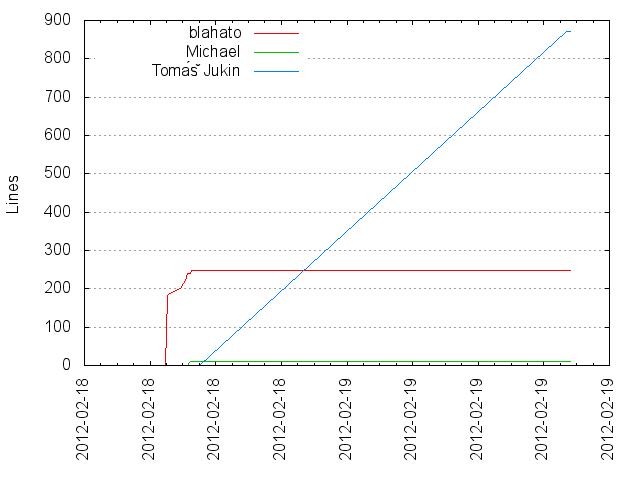
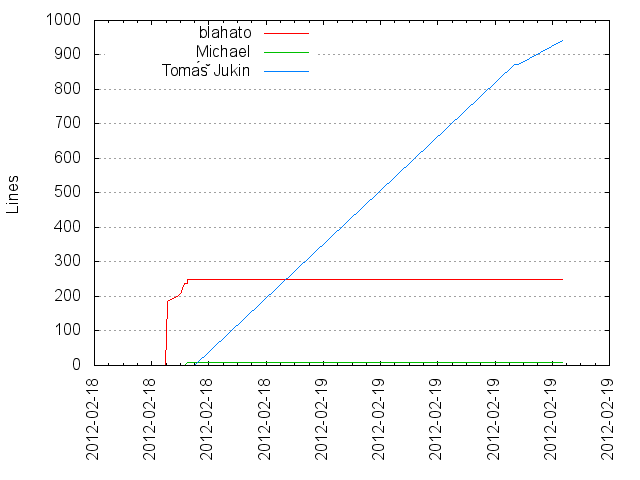
Generated git repository statistics

diff --git a/GADCPrague_stats/activity.html b/GADCPrague_stats/activity.html
@@ -4,7 +4,7 @@
 <head>
 	<title>GitStats - Timetable</title>
 	<link rel="stylesheet" href="gitstats.css" type="text/css" />
-	<meta name="generator" content="GitStats b27ff68" />
+	<meta name="generator" content="GitStats b550f7a" />
 	<script type="text/javascript" src="sortable.js"></script>
 </head>
 <body>
@@ -22,27 +22,27 @@
 
 <h2><a href="#weekly_activity" name="weekly_activity">Weekly activity</a></h2>
 
-<p>Last 32 weeks</p><table class="noborders"><tr><td style="text-align: center; vertical-align: bottom">0<div style="display: block; background-color: red; width: 20px; height: 1px"></div></td><td style="text-align: center; vertical-align: bottom">0<div style="display: block; background-color: red; width: 20px; height: 1px"></div></td><td style="text-align: center; vertical-align: bottom">0<div style="display: block; background-color: red; width: 20px; height: 1px"></div></td><td style="text-align: center; vertical-align: bottom">0<div style="display: block; background-color: red; width: 20px; height: 1px"></div></td><td style="text-align: center; vertical-align: bottom">0<div style="display: block; background-color: red; width: 20px; height: 1px"></div></td><td style="text-align: center; vertical-align: bottom">0<div style="display: block; background-color: red; width: 20px; height: 1px"></div></td><td style="text-align: center; vertical-align: bottom">0<div style="display: block; background-color: red; width: 20px; height: 1px"></div></td><td style="text-align: center; vertical-align: bottom">0<div style="display: block; background-color: red; width: 20px; height: 1px"></div></td><td style="text-align: center; vertical-align: bottom">0<div style="display: block; background-color: red; width: 20px; height: 1px"></div></td><td style="text-align: center; vertical-align: bottom">0<div style="display: block; background-color: red; width: 20px; height: 1px"></div></td><td style="text-align: center; vertical-align: bottom">0<div style="display: block; background-color: red; width: 20px; height: 1px"></div></td><td style="text-align: center; vertical-align: bottom">0<div style="display: block; background-color: red; width: 20px; height: 1px"></div></td><td style="text-align: center; vertical-align: bottom">0<div style="display: block; background-color: red; width: 20px; height: 1px"></div></td><td style="text-align: center; vertical-align: bottom">0<div style="display: block; background-color: red; width: 20px; height: 1px"></div></td><td style="text-align: center; vertical-align: bottom">0<div style="display: block; background-color: red; width: 20px; height: 1px"></div></td><td style="text-align: center; vertical-align: bottom">0<div style="display: block; background-color: red; width: 20px; height: 1px"></div></td><td style="text-align: center; vertical-align: bottom">0<div style="display: block; background-color: red; width: 20px; height: 1px"></div></td><td style="text-align: center; vertical-align: bottom">0<div style="display: block; background-color: red; width: 20px; height: 1px"></div></td><td style="text-align: center; vertical-align: bottom">0<div style="display: block; background-color: red; width: 20px; height: 1px"></div></td><td style="text-align: center; vertical-align: bottom">0<div style="display: block; background-color: red; width: 20px; height: 1px"></div></td><td style="text-align: center; vertical-align: bottom">0<div style="display: block; background-color: red; width: 20px; height: 1px"></div></td><td style="text-align: center; vertical-align: bottom">0<div style="display: block; background-color: red; width: 20px; height: 1px"></div></td><td style="text-align: center; vertical-align: bottom">0<div style="display: block; background-color: red; width: 20px; height: 1px"></div></td><td style="text-align: center; vertical-align: bottom">0<div style="display: block; background-color: red; width: 20px; height: 1px"></div></td><td style="text-align: center; vertical-align: bottom">0<div style="display: block; background-color: red; width: 20px; height: 1px"></div></td><td style="text-align: center; vertical-align: bottom">0<div style="display: block; background-color: red; width: 20px; height: 1px"></div></td><td style="text-align: center; vertical-align: bottom">0<div style="display: block; background-color: red; width: 20px; height: 1px"></div></td><td style="text-align: center; vertical-align: bottom">0<div style="display: block; background-color: red; width: 20px; height: 1px"></div></td><td style="text-align: center; vertical-align: bottom">0<div style="display: block; background-color: red; width: 20px; height: 1px"></div></td><td style="text-align: center; vertical-align: bottom">0<div style="display: block; background-color: red; width: 20px; height: 1px"></div></td><td style="text-align: center; vertical-align: bottom">0<div style="display: block; background-color: red; width: 20px; height: 1px"></div></td><td style="text-align: center; vertical-align: bottom">17<div style="display: block; background-color: red; width: 20px; height: 200px"></div></td></tr><tr><td>32</td><td>31</td><td>30</td><td>29</td><td>28</td><td>27</td><td>26</td><td>25</td><td>24</td><td>23</td><td>22</td><td>21</td><td>20</td><td>19</td><td>18</td><td>17</td><td>16</td><td>15</td><td>14</td><td>13</td><td>12</td><td>11</td><td>10</td><td>9</td><td>8</td><td>7</td><td>6</td><td>5</td><td>4</td><td>3</td><td>2</td><td>1</td></tr></table>
+<p>Last 32 weeks</p><table class="noborders"><tr><td style="text-align: center; vertical-align: bottom">0<div style="display: block; background-color: red; width: 20px; height: 1px"></div></td><td style="text-align: center; vertical-align: bottom">0<div style="display: block; background-color: red; width: 20px; height: 1px"></div></td><td style="text-align: center; vertical-align: bottom">0<div style="display: block; background-color: red; width: 20px; height: 1px"></div></td><td style="text-align: center; vertical-align: bottom">0<div style="display: block; background-color: red; width: 20px; height: 1px"></div></td><td style="text-align: center; vertical-align: bottom">0<div style="display: block; background-color: red; width: 20px; height: 1px"></div></td><td style="text-align: center; vertical-align: bottom">0<div style="display: block; background-color: red; width: 20px; height: 1px"></div></td><td style="text-align: center; vertical-align: bottom">0<div style="display: block; background-color: red; width: 20px; height: 1px"></div></td><td style="text-align: center; vertical-align: bottom">0<div style="display: block; background-color: red; width: 20px; height: 1px"></div></td><td style="text-align: center; vertical-align: bottom">0<div style="display: block; background-color: red; width: 20px; height: 1px"></div></td><td style="text-align: center; vertical-align: bottom">0<div style="display: block; background-color: red; width: 20px; height: 1px"></div></td><td style="text-align: center; vertical-align: bottom">0<div style="display: block; background-color: red; width: 20px; height: 1px"></div></td><td style="text-align: center; vertical-align: bottom">0<div style="display: block; background-color: red; width: 20px; height: 1px"></div></td><td style="text-align: center; vertical-align: bottom">0<div style="display: block; background-color: red; width: 20px; height: 1px"></div></td><td style="text-align: center; vertical-align: bottom">0<div style="display: block; background-color: red; width: 20px; height: 1px"></div></td><td style="text-align: center; vertical-align: bottom">0<div style="display: block; background-color: red; width: 20px; height: 1px"></div></td><td style="text-align: center; vertical-align: bottom">0<div style="display: block; background-color: red; width: 20px; height: 1px"></div></td><td style="text-align: center; vertical-align: bottom">0<div style="display: block; background-color: red; width: 20px; height: 1px"></div></td><td style="text-align: center; vertical-align: bottom">0<div style="display: block; background-color: red; width: 20px; height: 1px"></div></td><td style="text-align: center; vertical-align: bottom">0<div style="display: block; background-color: red; width: 20px; height: 1px"></div></td><td style="text-align: center; vertical-align: bottom">0<div style="display: block; background-color: red; width: 20px; height: 1px"></div></td><td style="text-align: center; vertical-align: bottom">0<div style="display: block; background-color: red; width: 20px; height: 1px"></div></td><td style="text-align: center; vertical-align: bottom">0<div style="display: block; background-color: red; width: 20px; height: 1px"></div></td><td style="text-align: center; vertical-align: bottom">0<div style="display: block; background-color: red; width: 20px; height: 1px"></div></td><td style="text-align: center; vertical-align: bottom">0<div style="display: block; background-color: red; width: 20px; height: 1px"></div></td><td style="text-align: center; vertical-align: bottom">0<div style="display: block; background-color: red; width: 20px; height: 1px"></div></td><td style="text-align: center; vertical-align: bottom">0<div style="display: block; background-color: red; width: 20px; height: 1px"></div></td><td style="text-align: center; vertical-align: bottom">0<div style="display: block; background-color: red; width: 20px; height: 1px"></div></td><td style="text-align: center; vertical-align: bottom">0<div style="display: block; background-color: red; width: 20px; height: 1px"></div></td><td style="text-align: center; vertical-align: bottom">0<div style="display: block; background-color: red; width: 20px; height: 1px"></div></td><td style="text-align: center; vertical-align: bottom">0<div style="display: block; background-color: red; width: 20px; height: 1px"></div></td><td style="text-align: center; vertical-align: bottom">0<div style="display: block; background-color: red; width: 20px; height: 1px"></div></td><td style="text-align: center; vertical-align: bottom">19<div style="display: block; background-color: red; width: 20px; height: 200px"></div></td></tr><tr><td>32</td><td>31</td><td>30</td><td>29</td><td>28</td><td>27</td><td>26</td><td>25</td><td>24</td><td>23</td><td>22</td><td>21</td><td>20</td><td>19</td><td>18</td><td>17</td><td>16</td><td>15</td><td>14</td><td>13</td><td>12</td><td>11</td><td>10</td><td>9</td><td>8</td><td>7</td><td>6</td><td>5</td><td>4</td><td>3</td><td>2</td><td>1</td></tr></table>
 <h2><a href="#hour_of_day" name="hour_of_day">Hour of Day</a></h2>
 
 <table><tr><th>Hour</th><th>0</th><th>1</th><th>2</th><th>3</th><th>4</th><th>5</th><th>6</th><th>7</th><th>8</th><th>9</th><th>10</th><th>11</th><th>12</th><th>13</th><th>14</th><th>15</th><th>16</th><th>17</th><th>18</th><th>19</th><th>20</th><th>21</th><th>22</th><th>23</th></tr>
-<tr><th>Commits</th><td>0</td><td>0</td><td>0</td><td>0</td><td>0</td><td>0</td><td>0</td><td>0</td><td>0</td><td>0</td><td>0</td><td>0</td><td style="background-color: rgb(145, 0, 0)">1</td><td style="background-color: rgb(200, 0, 0)">4</td><td style="background-color: rgb(218, 0, 0)">5</td><td style="background-color: rgb(255, 0, 0)">7</td><td>0</td><td>0</td><td>0</td><td>0</td><td>0</td><td>0</td><td>0</td><td>0</td></tr>
-<tr><th>%</th><td>0.00</td><td>0.00</td><td>0.00</td><td>0.00</td><td>0.00</td><td>0.00</td><td>0.00</td><td>0.00</td><td>0.00</td><td>0.00</td><td>0.00</td><td>0.00</td><td style="background-color: rgb(145, 0, 0)">5.88</td><td style="background-color: rgb(200, 0, 0)">23.53</td><td style="background-color: rgb(218, 0, 0)">29.41</td><td style="background-color: rgb(255, 0, 0)">41.18</td><td>0.00</td><td>0.00</td><td>0.00</td><td>0.00</td><td>0.00</td><td>0.00</td><td>0.00</td><td>0.00</td></tr></table><img src="hour_of_day.png" alt="Hour of Day" />
+<tr><th>Commits</th><td>0</td><td>0</td><td>0</td><td>0</td><td>0</td><td>0</td><td>0</td><td>0</td><td>0</td><td>0</td><td>0</td><td>0</td><td style="background-color: rgb(145, 0, 0)">1</td><td style="background-color: rgb(200, 0, 0)">4</td><td style="background-color: rgb(218, 0, 0)">5</td><td style="background-color: rgb(255, 0, 0)">7</td><td>0</td><td style="background-color: rgb(163, 0, 0)">2</td><td>0</td><td>0</td><td>0</td><td>0</td><td>0</td><td>0</td></tr>
+<tr><th>%</th><td>0.00</td><td>0.00</td><td>0.00</td><td>0.00</td><td>0.00</td><td>0.00</td><td>0.00</td><td>0.00</td><td>0.00</td><td>0.00</td><td>0.00</td><td>0.00</td><td style="background-color: rgb(145, 0, 0)">5.26</td><td style="background-color: rgb(200, 0, 0)">21.05</td><td style="background-color: rgb(218, 0, 0)">26.32</td><td style="background-color: rgb(255, 0, 0)">36.84</td><td>0.00</td><td style="background-color: rgb(163, 0, 0)">10.53</td><td>0.00</td><td>0.00</td><td>0.00</td><td>0.00</td><td>0.00</td><td>0.00</td></tr></table><img src="hour_of_day.png" alt="Hour of Day" />
 <h2><a href="#day_of_week" name="day_of_week">Day of Week</a></h2>
 
-<div class="vtable"><table><tr><th>Day</th><th>Total (%)</th></tr><tr><th>Mon</th><td>0</td></tr><tr><th>Tue</th><td>0</td></tr><tr><th>Wed</th><td>0</td></tr><tr><th>Thu</th><td>0</td></tr><tr><th>Fri</th><td>0</td></tr><tr><th>Sat</th><td>15 (88.24%)</td></tr><tr><th>Sun</th><td>2 (11.76%)</td></tr></table></div><img src="day_of_week.png" alt="Day of Week" />
+<div class="vtable"><table><tr><th>Day</th><th>Total (%)</th></tr><tr><th>Mon</th><td>0</td></tr><tr><th>Tue</th><td>0</td></tr><tr><th>Wed</th><td>0</td></tr><tr><th>Thu</th><td>0</td></tr><tr><th>Fri</th><td>0</td></tr><tr><th>Sat</th><td>15 (78.95%)</td></tr><tr><th>Sun</th><td>4 (21.05%)</td></tr></table></div><img src="day_of_week.png" alt="Day of Week" />
 <h2><a href="#hour_of_week" name="hour_of_week">Hour of Week</a></h2>
 
-<table><tr><th>Weekday</th><th>0</th><th>1</th><th>2</th><th>3</th><th>4</th><th>5</th><th>6</th><th>7</th><th>8</th><th>9</th><th>10</th><th>11</th><th>12</th><th>13</th><th>14</th><th>15</th><th>16</th><th>17</th><th>18</th><th>19</th><th>20</th><th>21</th><th>22</th><th>23</th></tr><tr><th>Mon</th><td></td><td></td><td></td><td></td><td></td><td></td><td></td><td></td><td></td><td></td><td></td><td></td><td></td><td></td><td></td><td></td><td></td><td></td><td></td><td></td><td></td><td></td><td></td><td></td></tr><tr><th>Tue</th><td></td><td></td><td></td><td></td><td></td><td></td><td></td><td></td><td></td><td></td><td></td><td></td><td></td><td></td><td></td><td></td><td></td><td></td><td></td><td></td><td></td><td></td><td></td><td></td></tr><tr><th>Wed</th><td></td><td></td><td></td><td></td><td></td><td></td><td></td><td></td><td></td><td></td><td></td><td></td><td></td><td></td><td></td><td></td><td></td><td></td><td></td><td></td><td></td><td></td><td></td><td></td></tr><tr><th>Thu</th><td></td><td></td><td></td><td></td><td></td><td></td><td></td><td></td><td></td><td></td><td></td><td></td><td></td><td></td><td></td><td></td><td></td><td></td><td></td><td></td><td></td><td></td><td></td><td></td></tr><tr><th>Fri</th><td></td><td></td><td></td><td></td><td></td><td></td><td></td><td></td><td></td><td></td><td></td><td></td><td></td><td></td><td></td><td></td><td></td><td></td><td></td><td></td><td></td><td></td><td></td><td></td></tr><tr><th>Sat</th><td></td><td></td><td></td><td></td><td></td><td></td><td></td><td></td><td></td><td></td><td></td><td></td><td style="background-color: rgb(145, 0, 0)">1</td><td style="background-color: rgb(200, 0, 0)">4</td><td style="background-color: rgb(181, 0, 0)">3</td><td style="background-color: rgb(255, 0, 0)">7</td><td></td><td></td><td></td><td></td><td></td><td></td><td></td><td></td></tr><tr><th>Sun</th><td></td><td></td><td></td><td></td><td></td><td></td><td></td><td></td><td></td><td></td><td></td><td></td><td></td><td></td><td style="background-color: rgb(163, 0, 0)">2</td><td></td><td></td><td></td><td></td><td></td><td></td><td></td><td></td><td></td></tr></table>
+<table><tr><th>Weekday</th><th>0</th><th>1</th><th>2</th><th>3</th><th>4</th><th>5</th><th>6</th><th>7</th><th>8</th><th>9</th><th>10</th><th>11</th><th>12</th><th>13</th><th>14</th><th>15</th><th>16</th><th>17</th><th>18</th><th>19</th><th>20</th><th>21</th><th>22</th><th>23</th></tr><tr><th>Mon</th><td></td><td></td><td></td><td></td><td></td><td></td><td></td><td></td><td></td><td></td><td></td><td></td><td></td><td></td><td></td><td></td><td></td><td></td><td></td><td></td><td></td><td></td><td></td><td></td></tr><tr><th>Tue</th><td></td><td></td><td></td><td></td><td></td><td></td><td></td><td></td><td></td><td></td><td></td><td></td><td></td><td></td><td></td><td></td><td></td><td></td><td></td><td></td><td></td><td></td><td></td><td></td></tr><tr><th>Wed</th><td></td><td></td><td></td><td></td><td></td><td></td><td></td><td></td><td></td><td></td><td></td><td></td><td></td><td></td><td></td><td></td><td></td><td></td><td></td><td></td><td></td><td></td><td></td><td></td></tr><tr><th>Thu</th><td></td><td></td><td></td><td></td><td></td><td></td><td></td><td></td><td></td><td></td><td></td><td></td><td></td><td></td><td></td><td></td><td></td><td></td><td></td><td></td><td></td><td></td><td></td><td></td></tr><tr><th>Fri</th><td></td><td></td><td></td><td></td><td></td><td></td><td></td><td></td><td></td><td></td><td></td><td></td><td></td><td></td><td></td><td></td><td></td><td></td><td></td><td></td><td></td><td></td><td></td><td></td></tr><tr><th>Sat</th><td></td><td></td><td></td><td></td><td></td><td></td><td></td><td></td><td></td><td></td><td></td><td></td><td style="background-color: rgb(145, 0, 0)">1</td><td style="background-color: rgb(200, 0, 0)">4</td><td style="background-color: rgb(181, 0, 0)">3</td><td style="background-color: rgb(255, 0, 0)">7</td><td></td><td></td><td></td><td></td><td></td><td></td><td></td><td></td></tr><tr><th>Sun</th><td></td><td></td><td></td><td></td><td></td><td></td><td></td><td></td><td></td><td></td><td></td><td></td><td></td><td></td><td style="background-color: rgb(163, 0, 0)">2</td><td></td><td></td><td style="background-color: rgb(163, 0, 0)">2</td><td></td><td></td><td></td><td></td><td></td><td></td></tr></table>
 <h2><a href="#month_of_year" name="month_of_year">Month of Year</a></h2>
 
-<div class="vtable"><table><tr><th>Month</th><th>Commits (%)</th></tr><tr><td>1</td><td>0 (0.00 %)</td></tr><tr><td>2</td><td>17 (100.00 %)</td></tr><tr><td>3</td><td>0 (0.00 %)</td></tr><tr><td>4</td><td>0 (0.00 %)</td></tr><tr><td>5</td><td>0 (0.00 %)</td></tr><tr><td>6</td><td>0 (0.00 %)</td></tr><tr><td>7</td><td>0 (0.00 %)</td></tr><tr><td>8</td><td>0 (0.00 %)</td></tr><tr><td>9</td><td>0 (0.00 %)</td></tr><tr><td>10</td><td>0 (0.00 %)</td></tr><tr><td>11</td><td>0 (0.00 %)</td></tr><tr><td>12</td><td>0 (0.00 %)</td></tr></table></div><img src="month_of_year.png" alt="Month of Year" />
+<div class="vtable"><table><tr><th>Month</th><th>Commits (%)</th></tr><tr><td>1</td><td>0 (0.00 %)</td></tr><tr><td>2</td><td>19 (100.00 %)</td></tr><tr><td>3</td><td>0 (0.00 %)</td></tr><tr><td>4</td><td>0 (0.00 %)</td></tr><tr><td>5</td><td>0 (0.00 %)</td></tr><tr><td>6</td><td>0 (0.00 %)</td></tr><tr><td>7</td><td>0 (0.00 %)</td></tr><tr><td>8</td><td>0 (0.00 %)</td></tr><tr><td>9</td><td>0 (0.00 %)</td></tr><tr><td>10</td><td>0 (0.00 %)</td></tr><tr><td>11</td><td>0 (0.00 %)</td></tr><tr><td>12</td><td>0 (0.00 %)</td></tr></table></div><img src="month_of_year.png" alt="Month of Year" />
 <h2><a href="#commits_by_year/month" name="commits_by_year/month">Commits by year/month</a></h2>
 
-<div class="vtable"><table><tr><th>Month</th><th>Commits</th><th>Lines added</th><th>Lines removed</th></tr><tr><td>2012-02</td><td>17</td><td>1179</td><td>233</td></tr></table></div><img src="commits_by_year_month.png" alt="Commits by year/month" />
+<div class="vtable"><table><tr><th>Month</th><th>Commits</th><th>Lines added</th><th>Lines removed</th></tr><tr><td>2012-02</td><td>19</td><td>1248</td><td>293</td></tr></table></div><img src="commits_by_year_month.png" alt="Commits by year/month" />
 <h2><a href="#commits_by_year" name="commits_by_year">Commits by Year</a></h2>
 
-<div class="vtable"><table><tr><th>Year</th><th>Commits (% of all)</th><th>Lines added</th><th>Lines removed</th></tr><tr><td>2012</td><td>17 (100.00%)</td><td>1179</td><td>233</td></tr></table></div><img src="commits_by_year.png" alt="Commits by Year" />
+<div class="vtable"><table><tr><th>Year</th><th>Commits (% of all)</th><th>Lines added</th><th>Lines removed</th></tr><tr><td>2012</td><td>19 (100.00%)</td><td>1248</td><td>293</td></tr></table></div><img src="commits_by_year.png" alt="Commits by Year" />
 <h2><a href="#commits_by_timezone" name="commits_by_timezone">Commits by Timezone</a></h2>
 
-<table><tr><th>Timezone</th><th>Commits</th><tr><th>+0100</th><td style="background-color: rgb(255, 0, 0)">17</td></tr></tr></table></body></html>
+<table><tr><th>Timezone</th><th>Commits</th><tr><th>+0100</th><td style="background-color: rgb(255, 0, 0)">19</td></tr></tr></table></body></html>

diff --git a/GADCPrague_stats/authors.html b/GADCPrague_stats/authors.html
@@ -4,7 +4,7 @@
 <head>
 	<title>GitStats - Timetable</title>
 	<link rel="stylesheet" href="gitstats.css" type="text/css" />
-	<meta name="generator" content="GitStats b27ff68" />
+	<meta name="generator" content="GitStats b550f7a" />
 	<script type="text/javascript" src="sortable.js"></script>
 </head>
 <body>
@@ -22,7 +22,7 @@
 
 <h2><a href="#list_of_authors" name="list_of_authors">List of Authors</a></h2>
 
-<table class="authors sortable" id="authors"><tr><th>Author</th><th>Commits (%)</th><th>+ lines</th><th>- lines</th><th>First commit</th><th>Last commit</th><th class="unsortable">Age</th><th>Active days</th><th># by commits</th></tr><tr><td>blahato</td><td>10 (58.82%)</td><td>249</td><td>36</td><td>2012-02-18</td><td>2012-02-18</td><td>1:46:39</td><td>1</td><td>1</td></tr><tr><td>Michael</td><td>5 (29.41%)</td><td>10</td><td>4</td><td>2012-02-18</td><td>2012-02-18</td><td>3:02:09</td><td>1</td><td>2</td></tr><tr><td>Tomáš Jukin</td><td>2 (11.76%)</td><td>872</td><td>0</td><td>2012-02-19</td><td>2012-02-19</td><td>0:13:14</td><td>1</td><td>3</td></tr></table>
+<table class="authors sortable" id="authors"><tr><th>Author</th><th>Commits (%)</th><th>+ lines</th><th>- lines</th><th>First commit</th><th>Last commit</th><th class="unsortable">Age</th><th>Active days</th><th># by commits</th></tr><tr><td>blahato</td><td>10 (52.63%)</td><td>249</td><td>36</td><td>2012-02-18</td><td>2012-02-18</td><td>1:46:39</td><td>1</td><td>1</td></tr><tr><td>Michael</td><td>5 (26.32%)</td><td>10</td><td>4</td><td>2012-02-18</td><td>2012-02-18</td><td>3:02:09</td><td>1</td><td>2</td></tr><tr><td>Tomáš Jukin</td><td>4 (21.05%)</td><td>941</td><td>60</td><td>2012-02-19</td><td>2012-02-19</td><td>3:20:17</td><td>1</td><td>3</td></tr></table>
 <h2><a href="#cumulated_added_lines_of_code_per_author" name="cumulated_added_lines_of_code_per_author">Cumulated Added Lines of Code per Author</a></h2>
 
 <img src="lines_of_code_by_author.png" alt="Lines of code per Author" />
@@ -31,10 +31,10 @@
 <img src="commits_by_author.png" alt="Commits per Author" />
 <h2><a href="#author_of_month" name="author_of_month">Author of Month</a></h2>
 
-<table class="sortable" id="aom"><tr><th>Month</th><th>Author</th><th>Commits (%)</th><th class="unsortable">Next top 5</th><th>Number of authors</th></tr><tr><td>2012-02</td><td>blahato</td><td>10 (58.82% of 17)</td><td>Michael, Tomáš Jukin</td><td>3</td></tr></table>
+<table class="sortable" id="aom"><tr><th>Month</th><th>Author</th><th>Commits (%)</th><th class="unsortable">Next top 5</th><th>Number of authors</th></tr><tr><td>2012-02</td><td>blahato</td><td>10 (52.63% of 19)</td><td>Michael, Tomáš Jukin</td><td>3</td></tr></table>
 <h2><a href="#author_of_year" name="author_of_year">Author of Year</a></h2>
 
-<table class="sortable" id="aoy"><tr><th>Year</th><th>Author</th><th>Commits (%)</th><th class="unsortable">Next top 5</th><th>Number of authors</th></tr><tr><td>2012</td><td>blahato</td><td>10 (58.82% of 17)</td><td>Michael, Tomáš Jukin</td><td>3</td></tr></table>
+<table class="sortable" id="aoy"><tr><th>Year</th><th>Author</th><th>Commits (%)</th><th class="unsortable">Next top 5</th><th>Number of authors</th></tr><tr><td>2012</td><td>blahato</td><td>10 (52.63% of 19)</td><td>Michael, Tomáš Jukin</td><td>3</td></tr></table>
 <h2><a href="#commits_by_domains" name="commits_by_domains">Commits by Domains</a></h2>
 
-<div class="vtable"><table><tr><th>Domains</th><th>Total (%)</th></tr><tr><th>gmail.com</th><td>15 (88.24%)</td></tr><tr><th>jukin.cz</th><td>2 (11.76%)</td></tr></table></div><img src="domains.png" alt="Commits by Domains" /></body></html>
+<div class="vtable"><table><tr><th>Domains</th><th>Total (%)</th></tr><tr><th>gmail.com</th><td>15 (78.95%)</td></tr><tr><th>jukin.cz</th><td>4 (21.05%)</td></tr></table></div><img src="domains.png" alt="Commits by Domains" /></body></html>

diff --git a/GADCPrague_stats/files.html b/GADCPrague_stats/files.html
@@ -4,7 +4,7 @@
 <head>
 	<title>GitStats - Timetable</title>
 	<link rel="stylesheet" href="gitstats.css" type="text/css" />
-	<meta name="generator" content="GitStats b27ff68" />
+	<meta name="generator" content="GitStats b550f7a" />
 	<script type="text/javascript" src="sortable.js"></script>
 </head>
 <body>
@@ -20,11 +20,11 @@
 </ul>
 </div>
 <dl>
-<dt>Total files</dt><dd>47</dd><dt>Total lines</dt><dd>946</dd><dt>Average file size</dt><dd>11431.32 bytes</dd></dl>
+<dt>Total files</dt><dd>47</dd><dt>Total lines</dt><dd>955</dd><dt>Average file size</dt><dd>1550.85 bytes</dd></dl>
 
 <h2><a href="#file_count_by_date" name="file_count_by_date">File count by date</a></h2>
 
 <img src="files_by_date.png" alt="Files by Date" />
 <h2><a href="#extensions" name="extensions">Extensions</a></h2>
 
-<table class="sortable" id="ext"><tr><th>Extension</th><th>Files (%)</th><th>Lines (%)</th><th>Lines/file</th></tr><tr><td></td><td>2 (4.26%)</td><td>34 (3.59%)</td><td>17</td></tr><tr><td>cache</td><td>1 (2.13%)</td><td>1 (0.11%)</td><td>1</td></tr><tr><td>class</td><td>1 (2.13%)</td><td>20 (2.11%)</td><td>20</td></tr><tr><td>css</td><td>1 (2.13%)</td><td>145 (15.33%)</td><td>145</td></tr><tr><td>dat</td><td>10 (21.28%)</td><td>95 (10.04%)</td><td>9</td></tr><tr><td>gif</td><td>3 (6.38%)</td><td>6 (0.63%)</td><td>2</td></tr><tr><td>html</td><td>6 (12.77%)</td><td>184 (19.45%)</td><td>30</td></tr><tr><td>java</td><td>1 (2.13%)</td><td>39 (4.12%)</td><td>39</td></tr><tr><td>js</td><td>1 (2.13%)</td><td>324 (34.25%)</td><td>324</td></tr><tr><td>mp4</td><td>1 (2.13%)</td><td>1855 (196.09%)</td><td>1855</td></tr><tr><td>plot</td><td>10 (21.28%)</td><td>118 (12.47%)</td><td>11</td></tr><tr><td>png</td><td>10 (21.28%)</td><td>127 (13.42%)</td><td>12</td></tr></table></body></html>
+<table class="sortable" id="ext"><tr><th>Extension</th><th>Files (%)</th><th>Lines (%)</th><th>Lines/file</th></tr><tr><td></td><td>2 (4.26%)</td><td>34 (3.56%)</td><td>17</td></tr><tr><td>cache</td><td>1 (2.13%)</td><td>10 (1.05%)</td><td>10</td></tr><tr><td>class</td><td>1 (2.13%)</td><td>20 (2.09%)</td><td>20</td></tr><tr><td>css</td><td>1 (2.13%)</td><td>145 (15.18%)</td><td>145</td></tr><tr><td>dat</td><td>10 (21.28%)</td><td>104 (10.89%)</td><td>10</td></tr><tr><td>gif</td><td>3 (6.38%)</td><td>6 (0.63%)</td><td>2</td></tr><tr><td>html</td><td>6 (12.77%)</td><td>184 (19.27%)</td><td>30</td></tr><tr><td>java</td><td>1 (2.13%)</td><td>39 (4.08%)</td><td>39</td></tr><tr><td>js</td><td>1 (2.13%)</td><td>324 (33.93%)</td><td>324</td></tr><tr><td>mp4</td><td>1 (2.13%)</td><td>0 (0.00%)</td><td>0</td></tr><tr><td>plot</td><td>10 (21.28%)</td><td>118 (12.36%)</td><td>11</td></tr><tr><td>png</td><td>10 (21.28%)</td><td>174 (18.22%)</td><td>17</td></tr></table></body></html>

diff --git a/GADCPrague_stats/index.html b/GADCPrague_stats/index.html
@@ -4,7 +4,7 @@
 <head>
 	<title>GitStats - Timetable</title>
 	<link rel="stylesheet" href="gitstats.css" type="text/css" />
-	<meta name="generator" content="GitStats b27ff68" />
+	<meta name="generator" content="GitStats b550f7a" />
 	<script type="text/javascript" src="sortable.js"></script>
 </head>
 <body>
@@ -19,5 +19,5 @@
 <li><a href="tags.html">Tags</a></li>
 </ul>
 </div>
-<dl><dt>Project name</dt><dd>Timetable</dd><dt>Generated</dt><dd>2012-02-19 17:40:43 (in 2 seconds)</dd><dt>Generator</dt><dd><a href="http://gitstats.sourceforge.net/">GitStats</a> (version b27ff68), git version 1.7.1.1, gnuplot 4.4 patchlevel 4</dd><dt>Report Period</dt><dd>2012-02-18 12:57:09 to 2012-02-19 14:36:34</dd><dt>Age</dt><dd>2 days, 2 active days (100.00%)</dd><dt>Total Files</dt><dd>47</dd><dt>Total Lines of Code</dt><dd>946 (1179 added, 233 removed)</dd><dt>Total Commits</dt><dd>17 (average 8.5 commits per active day, 8.5 per all days)</dd><dt>Authors</dt><dd>3 (average 5.7 commits per author)</dd></dl></body>
+<dl><dt>Project name</dt><dd>Timetable</dd><dt>Generated</dt><dd>2012-02-19 17:49:03 (in 2 seconds)</dd><dt>Generator</dt><dd><a href="http://gitstats.sourceforge.net/">GitStats</a> (version b550f7a), git version 1.7.1.1, gnuplot 4.4 patchlevel 4</dd><dt>Report Period</dt><dd>2012-02-18 12:57:09 to 2012-02-19 17:43:37</dd><dt>Age</dt><dd>2 days, 2 active days (100.00%)</dd><dt>Total Files</dt><dd>47</dd><dt>Total Lines of Code</dt><dd>955 (1248 added, 293 removed)</dd><dt>Total Commits</dt><dd>19 (average 9.5 commits per active day, 9.5 per all days)</dd><dt>Authors</dt><dd>3 (average 6.3 commits per author)</dd></dl></body>
 </html>

diff --git a/GADCPrague_stats/lines.html b/GADCPrague_stats/lines.html
@@ -4,7 +4,7 @@
 <head>
 	<title>GitStats - Timetable</title>
 	<link rel="stylesheet" href="gitstats.css" type="text/css" />
-	<meta name="generator" content="GitStats b27ff68" />
+	<meta name="generator" content="GitStats b550f7a" />
 	<script type="text/javascript" src="sortable.js"></script>
 </head>
 <body>
@@ -20,7 +20,7 @@
 </ul>
 </div>
 <dl>
-<dt>Total lines</dt><dd>946</dd></dl>
+<dt>Total lines</dt><dd>955</dd></dl>
 
 <h2><a href="#lines_of_code" name="lines_of_code">Lines of Code</a></h2>
 

diff --git a/GADCPrague_stats/tags.html b/GADCPrague_stats/tags.html
@@ -4,7 +4,7 @@
 <head>
 	<title>GitStats - Timetable</title>
 	<link rel="stylesheet" href="gitstats.css" type="text/css" />
-	<meta name="generator" content="GitStats b27ff68" />
+	<meta name="generator" content="GitStats b550f7a" />
 	<script type="text/javascript" src="sortable.js"></script>
 </head>
 <body>
